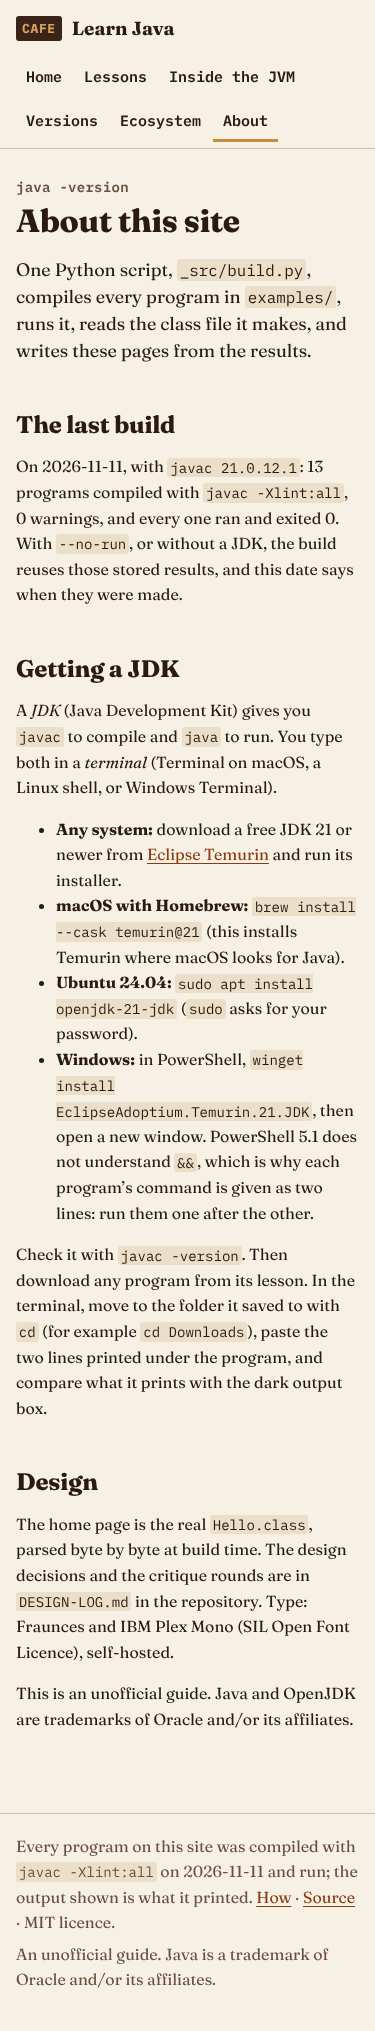
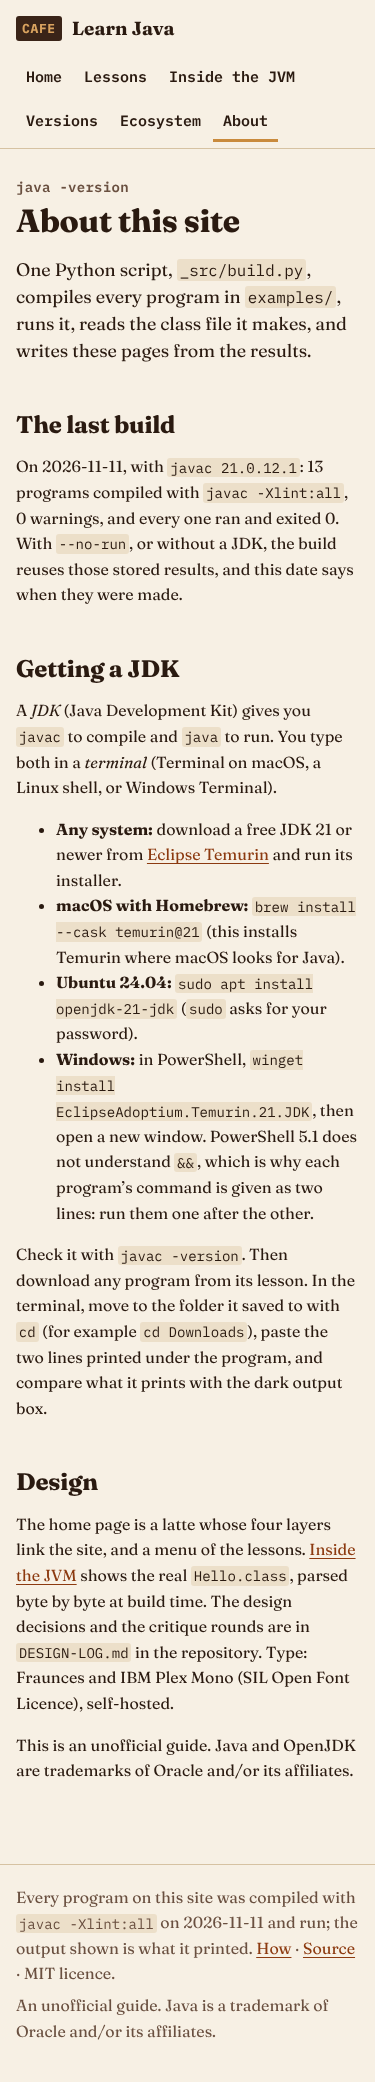
R3 fixes: a balanced café (larger glass, lighter board), a visible focus ring in the glass, marked historical prices, corrected claims; close the run in the log
Claude-Session: https://claude.ai/code/session_01Sp4uVaSfPTnARaHZUQe5XT

Changed region(s): [[0.0293, 0.0, 0.968, 0.8685], [0.0293, 0.8996, 0.968, 0.9926], [0.3227, 0.031, 0.4107, 0.062]]

diff --git a/site/index.html b/site/index.html
@@ -30,10 +30,11 @@
   </div>
   <figure class="cup">
     <svg class="steam" viewBox="0 0 120 40" aria-hidden="true"><path d="M30 38c-8-8 8-12 0-22s6-12 4-16M60 38c-8-8 8-12 0-22s6-12 4-16M90 38c-8-8 8-12 0-22s6-12 4-16"/></svg>
-    <ol class="glass" aria-label="The site, layer by layer"><li class="layer foam"><a href="ecosystem.html"><span class="ly-t">Ecosystem →</span><span class="ly-l">6 families of tools, 14 links</span></a></li><li class="layer milk"><a href="versions.html"><span class="ly-t">Versions →</span><span class="ly-l">Java 1.0 to 25, and which lesson needs which</span></a></li><li class="layer caramel"><a href="jvm.html"><span class="ly-t">Inside the JVM →</span><span class="ly-l">Hello.class, all 417 bytes of it</span></a></li><li class="layer espresso"><a href="lessons/index.html"><span class="ly-t">The lessons →</span><span class="ly-l">13 small programs, compiled and run</span></a></li></ol>
+    <div class="glass-wrap"><ol class="glass" aria-label="The site, layer by layer"><li class="layer foam"><a href="ecosystem.html"><span class="ly-t">Ecosystem →</span><span class="ly-l">tools, frameworks and languages: 14 links</span></a></li><li class="layer milk"><a href="versions.html"><span class="ly-t">Versions →</span><span class="ly-l">Java 1.0 to 25, the current long-term release</span></a></li><li class="layer caramel"><a href="jvm.html"><span class="ly-t">Inside the JVM →</span><span class="ly-l">Hello.class, all 417 bytes of it</span></a></li><li class="layer espresso"><a href="lessons/index.html"><span class="ly-t">The lessons →</span><span class="ly-l">13 small programs, compiled and run</span></a></li></ol></div>
     <figcaption class="saucer"><code>0xCAFEBABE</code> <span>every class file starts with these bytes. <a href="jvm.html#magic">Why</a></span></figcaption>
   </figure>
-  <nav class="menu" aria-labelledby="menu-h"><p class="menu-h" id="menu-h">Menu <span>13 lessons</span></p><ol><li><a href="lessons/01-hello.html"><span class="mn">01</span><span class="mt">Hello, World</span><span class="mdots" aria-hidden="true"></span><span class="mp">Java 1.0+</span></a></li><li><a href="lessons/02-variables.html"><span class="mn">02</span><span class="mt">Variables and types</span><span class="mdots" aria-hidden="true"></span><span class="mp">Java 10+</span></a></li><li><a href="lessons/03-strings.html"><span class="mn">03</span><span class="mt">Strings</span><span class="mdots" aria-hidden="true"></span><span class="mp">Java 15+</span></a></li><li><a href="lessons/04-control-flow.html"><span class="mn">04</span><span class="mt">Control flow</span><span class="mdots" aria-hidden="true"></span><span class="mp">Java 14+</span></a></li><li><a href="lessons/05-methods.html"><span class="mn">05</span><span class="mt">Methods</span><span class="mdots" aria-hidden="true"></span><span class="mp">Java 1.0+</span></a></li><li><a href="lessons/06-arrays.html"><span class="mn">06</span><span class="mt">Arrays</span><span class="mdots" aria-hidden="true"></span><span class="mp">Java 5.0+</span></a></li><li><a href="lessons/07-classes.html"><span class="mn">07</span><span class="mt">Classes and objects</span><span class="mdots" aria-hidden="true"></span><span class="mp">Java 5.0+</span></a></li><li><a href="lessons/08-interfaces.html"><span class="mn">08</span><span class="mt">Interfaces and polymorphism</span><span class="mdots" aria-hidden="true"></span><span class="mp">Java 9+</span></a></li><li><a href="lessons/09-records.html"><span class="mn">09</span><span class="mt">Records, sealed types and patterns</span><span class="mdots" aria-hidden="true"></span><span class="mp">Java 21+</span></a></li><li><a href="lessons/10-collections.html"><span class="mn">10</span><span class="mt">Collections and generics</span><span class="mdots" aria-hidden="true"></span><span class="mp">Java 9+</span></a></li><li><a href="lessons/11-exceptions.html"><span class="mn">11</span><span class="mt">Exceptions</span><span class="mdots" aria-hidden="true"></span><span class="mp">Java 11+</span></a></li><li><a href="lessons/12-streams.html"><span class="mn">12</span><span class="mt">Lambdas and streams</span><span class="mdots" aria-hidden="true"></span><span class="mp">Java 16+</span></a></li><li><a href="lessons/13-threads.html"><span class="mn">13</span><span class="mt">Virtual threads</span><span class="mdots" aria-hidden="true"></span><span class="mp">Java 21+</span></a></li></ol></nav>
+  <nav class="menu" aria-labelledby="menu-h"><p class="menu-h" id="menu-h">Menu <span>13 lessons</span></p><ol><li><a href="lessons/01-hello.html"><span class="mn">01</span><span class="mt">Hello, World</span><span class="mdots" aria-hidden="true"></span><span class="mp">Java 1.0+<span class=dag title='From the language history, not compiled'>†</span></span></a></li><li><a href="lessons/02-variables.html"><span class="mn">02</span><span class="mt">Variables and types</span><span class="mdots" aria-hidden="true"></span><span class="mp">Java 10+</span></a></li><li><a href="lessons/03-strings.html"><span class="mn">03</span><span class="mt">Strings</span><span class="mdots" aria-hidden="true"></span><span class="mp">Java 15+</span></a></li><li><a href="lessons/04-control-flow.html"><span class="mn">04</span><span class="mt">Control flow</span><span class="mdots" aria-hidden="true"></span><span class="mp">Java 14+</span></a></li><li><a href="lessons/05-methods.html"><span class="mn">05</span><span class="mt">Methods</span><span class="mdots" aria-hidden="true"></span><span class="mp">Java 1.0+<span class=dag title='From the language history, not compiled'>†</span></span></a></li><li><a href="lessons/06-arrays.html"><span class="mn">06</span><span class="mt">Arrays</span><span class="mdots" aria-hidden="true"></span><span class="mp">Java 5.0+<span class=dag title='From the language history, not compiled'>†</span></span></a></li><li><a href="lessons/07-classes.html"><span class="mn">07</span><span class="mt">Classes and objects</span><span class="mdots" aria-hidden="true"></span><span class="mp">Java 5.0+<span class=dag title='From the language history, not compiled'>†</span></span></a></li><li><a href="lessons/08-interfaces.html"><span class="mn">08</span><span class="mt">Interfaces and polymorphism</span><span class="mdots" aria-hidden="true"></span><span class="mp">Java 9+</span></a></li><li><a href="lessons/09-records.html"><span class="mn">09</span><span class="mt">Records, sealed types and patterns</span><span class="mdots" aria-hidden="true"></span><span class="mp">Java 21+</span></a></li><li><a href="lessons/10-collections.html"><span class="mn">10</span><span class="mt">Collections and generics</span><span class="mdots" aria-hidden="true"></span><span class="mp">Java 9+</span></a></li><li><a href="lessons/11-exceptions.html"><span class="mn">11</span><span class="mt">Exceptions</span><span class="mdots" aria-hidden="true"></span><span class="mp">Java 11+</span></a></li><li><a href="lessons/12-streams.html"><span class="mn">12</span><span class="mt">Lambdas and streams</span><span class="mdots" aria-hidden="true"></span><span class="mp">Java 16+</span></a></li><li><a href="lessons/13-threads.html"><span class="mn">13</span><span class="mt">Virtual threads</span><span class="mdots" aria-hidden="true"></span><span class="mp">Java 21+</span></a></li></ol>
+    <p class="menu-note">Price: the oldest Java each lesson compiles under, proven with <code>javac --release</code> from Java 8 on. † From the language’s history.</p></nav>
 </section>
 <section class="wrap">
   <h2>What Java is</h2>

diff --git a/site/versions.html b/site/versions.html
@@ -25,7 +25,7 @@
   <p class="kicker">major 65 = Java 21</p>
   <h1>Versions</h1>
   <p class="lede">Java has kept almost every old program running while it changed. Since 2018 a new version arrives every six months. Some are long-term-support (LTS) releases that companies stay on for years: 11 in 2018, 17 in 2021, and since then one every two years.</p>
-  <ul class="versions"><li><span class='yr'>1996</span><span class='vn'>1.0</span><span class='vt'>Sun Microsystems releases Java: “write once, run anywhere” on the JVM. <span class="uses">Lessons that need it: <a href="lessons/01-hello.html">01</a>, <a href="lessons/05-methods.html">05</a></span></span></li><li><span class='yr'>1998</span><span class='vn'>1.2</span><span class='vt'>The Collections framework: List, Map, Set.</span></li><li><span class='yr'>2004</span><span class='vn'>5.0</span><span class='vt'>Generics, enums, annotations and the enhanced for loop. <span class="uses">Lessons that need it: <a href="lessons/06-arrays.html">06</a>, <a href="lessons/07-classes.html">07</a></span></span></li><li><span class='yr'>2006</span><span class='vn'>6</span><span class='vt'>Sun begins releasing Java as open source: OpenJDK.</span></li><li><span class='yr'>2010</span><span class='vn'>—</span><span class='vt'>Oracle acquires Sun, and with it Java.</span></li><li><span class='yr'>2011</span><span class='vn'>7</span><span class='vt'>try-with-resources, the diamond <code>&lt;&gt;</code>, strings in switch.</span></li><li class="lts"><span class='yr'>2014</span><span class='vn'>8</span><span class='vt'>Lambdas, streams and the java.time dates. <em class="tag">LTS</em></span></li><li><span class='yr'>2017</span><span class='vn'>9</span><span class='vt'>Modules, and JShell for trying code line by line. <span class="uses">Lessons that need it: <a href="lessons/08-interfaces.html">08</a>, <a href="lessons/10-collections.html">10</a></span></span></li><li><span class='yr'>2018</span><span class='vn'>10</span><span class='vt'><code>var</code>, and a new release every six months, in March and September. <span class="uses">Lessons that need it: <a href="lessons/02-variables.html">02</a></span></span></li><li class="lts"><span class='yr'>2018</span><span class='vn'>11</span><span class='vt'>Run a source file directly: <code>java Hello.java</code>. <em class="tag">LTS</em> <span class="uses">Lessons that need it: <a href="lessons/11-exceptions.html">11</a></span></span></li><li><span class='yr'>2020</span><span class='vn'>14</span><span class='vt'>Switch expressions, with <code>-&gt;</code> and a value. <span class="uses">Lessons that need it: <a href="lessons/04-control-flow.html">04</a></span></span></li><li><span class='yr'>2020</span><span class='vn'>15</span><span class='vt'>Text blocks: strings in three double quotes that keep their line breaks. <span class="uses">Lessons that need it: <a href="lessons/03-strings.html">03</a></span></span></li><li><span class='yr'>2021</span><span class='vn'>16</span><span class='vt'>Records: a one-line class for plain data. <span class="uses">Lessons that need it: <a href="lessons/12-streams.html">12</a></span></span></li><li class="lts"><span class='yr'>2021</span><span class='vn'>17</span><span class='vt'>Sealed classes. <em class="tag">LTS</em></span></li><li class="lts"><span class='yr'>2023</span><span class='vn'>21</span><span class='vt'>Virtual threads, record patterns and pattern matching for switch. <em class="tag">LTS</em> <span class="uses">Lessons that need it: <a href="lessons/09-records.html">09</a>, <a href="lessons/13-threads.html">13</a></span></span></li><li class="lts"><span class='yr'>2025</span><span class='vn'>25</span><span class='vt'>The current long-term-support release. <em class="tag">LTS</em></span></li></ul>
+  <ul class="versions"><li><span class='yr'>1996</span><span class='vn'>1.0</span><span class='vt'>Sun Microsystems releases Java: “write once, run anywhere” on the JVM. <span class="uses">Lessons that need it: <a href="lessons/01-hello.html">01</a>, <a href="lessons/05-methods.html">05</a></span></span></li><li><span class='yr'>1998</span><span class='vn'>1.2</span><span class='vt'>The Collections framework: List, Map, Set.</span></li><li><span class='yr'>2004</span><span class='vn'>5.0</span><span class='vt'>Generics, enums, annotations and the enhanced for loop. <span class="uses">Lessons that need it: <a href="lessons/06-arrays.html">06</a>, <a href="lessons/07-classes.html">07</a></span></span></li><li><span class='yr'>2006</span><span class='vn'>6</span><span class='vt'>Sun begins releasing Java as open source: OpenJDK.</span></li><li><span class='yr'>2010</span><span class='vn'>—</span><span class='vt'>Oracle acquires Sun, and with it Java.</span></li><li><span class='yr'>2011</span><span class='vn'>7</span><span class='vt'>try-with-resources, the diamond <code>&lt;&gt;</code>, strings in switch.</span></li><li class="lts"><span class='yr'>2014</span><span class='vn'>8</span><span class='vt'>Lambdas, streams and the java.time dates. <em class="tag">LTS</em></span></li><li><span class='yr'>2017</span><span class='vn'>9</span><span class='vt'>Modules, and JShell for trying code line by line. <span class="uses">Lessons that need it: <a href="lessons/08-interfaces.html">08</a>, <a href="lessons/10-collections.html">10</a></span></span></li><li><span class='yr'>2018</span><span class='vn'>10</span><span class='vt'><code>var</code>, and a new release every six months, in March and September. <span class="uses">Lessons that need it: <a href="lessons/02-variables.html">02</a></span></span></li><li class="lts"><span class='yr'>2018</span><span class='vn'>11</span><span class='vt'>Run a source file directly: <code>java Hello.java</code>. <em class="tag">LTS</em> <span class="uses">Lessons that need it: <a href="lessons/11-exceptions.html">11</a></span></span></li><li><span class='yr'>2020</span><span class='vn'>14</span><span class='vt'>Switch expressions, with <code>-&gt;</code> and a value. <span class="uses">Lessons that need it: <a href="lessons/04-control-flow.html">04</a></span></span></li><li><span class='yr'>2020</span><span class='vn'>15</span><span class='vt'>Text blocks: strings in three double quotes that keep their line breaks. <span class="uses">Lessons that need it: <a href="lessons/03-strings.html">03</a></span></span></li><li><span class='yr'>2021</span><span class='vn'>16</span><span class='vt'>Records: a one-line class for plain data. <span class="uses">Lessons that need it: <a href="lessons/12-streams.html">12</a></span></span></li><li class="lts"><span class='yr'>2021</span><span class='vn'>17</span><span class='vt'>Sealed classes. <em class="tag">LTS</em></span></li><li class="lts"><span class='yr'>2023</span><span class='vn'>21</span><span class='vt'>Virtual threads, record patterns and pattern matching for switch. <em class="tag">LTS</em> <span class="uses">Lessons that need it: <a href="lessons/09-records.html">09</a>, <a href="lessons/13-threads.html">13</a></span></span></li><li class="lts"><span class='yr'>2025</span><span class='vn'>25</span><span class='vt'>The current long-term-support release. This list stops here: the six-monthly releases after it are not yet covered by any lesson. <em class="tag">LTS</em></span></li></ul>
   <p class="small">This site is built with <code>javac 21.0.12.1</code>. The lesson numbers beside a version are the lessons that cannot compile under anything older. For Java 8 and later the build proves each one with <code>javac --release</code>.</p>
 </article>
 </main>

diff --git a/site/css/site.css b/site/css/site.css
@@ -79,7 +79,8 @@ main { padding: 0 16px 64px; }
 @media (prefers-color-scheme: dark) { .start { background: var(--crema); border-color: var(--crema); color: #18110c; } .mark-hex { background: var(--crema); color: #18110c; } }
 @media (hover: hover) and (pointer: fine) { .start:hover { background: transparent; color: var(--ink); } }
 
-.cup { grid-area: cup; margin: 0 auto; width: min(100%, 340px); filter: drop-shadow(0 0 1.5px var(--ink-2)); }
+.cup { grid-area: cup; margin: 0 auto; width: min(100%, 340px); }
+.glass-wrap { filter: drop-shadow(0 0 1.5px var(--ink-2)); }
 .steam { display: block; width: 46%; margin: 0 auto -4px; height: auto; }
 .steam path { fill: none; stroke: var(--rule); stroke-width: 3; stroke-linecap: round; }
 .glass { list-style: none; margin: 0; padding: 0; display: grid;
@@ -93,15 +94,17 @@ main { padding: 0 16px 64px; }
 .ly-t { font: 700 18px/1.2 var(--serif); }
 .ly-l { font-size: 15px; line-height: 1.3; }
 @media (hover: hover) and (pointer: fine) { .layer a:hover .ly-t { text-decoration: underline; } }
-.layer a:focus-visible { outline-offset: -5px; }
+.layer a:focus-visible { outline: 3px solid var(--ink); outline-offset: -6px; box-shadow: inset 0 0 0 6px var(--foam); }
+.glass:focus-within { clip-path: none; }
+@media (prefers-color-scheme: dark) { .layer a:focus-visible { outline-color: #18110c; box-shadow: inset 0 0 0 6px #fff6e6; } }
 .saucer { margin: 6px auto 0; padding: 8px 12px; border-top: 6px solid var(--rule); border-radius: 50% / 0 0 100% 100%; text-align: center; font-size: 15px; line-height: 1.4; color: var(--ink-2); }
 .saucer code { font-weight: 700; color: var(--ink); }
 
-.menu { grid-area: menu; background: var(--board); color: var(--board-ink); border-radius: 10px; padding: 16px 16px 10px; border: 8px solid #5a4231; }
+.menu { grid-area: menu; background: var(--board); color: var(--board-ink); border-radius: 10px; padding: 16px 16px 10px; border: 5px solid #7a5a43; }
 .menu-h { font: italic 400 30px/1 var(--serif); margin: 0 0 10px; display: flex; justify-content: space-between; align-items: baseline; }
 .menu-h span { font: 600 13px var(--mono); color: var(--board-2); font-style: normal; }
 .menu ol { list-style: none; margin: 0; padding: 0; }
-.menu a { display: grid; grid-template-columns: 2.1em auto minmax(1em, 1fr) auto; align-items: baseline; gap: 0 6px; min-height: 44px; padding: 10px 0 0; color: var(--board-ink); text-decoration: none; border-bottom: 1px solid #ffffff1a; }
+.menu a { display: grid; grid-template-columns: 2.1em minmax(0, auto) minmax(1em, 1fr) auto; align-items: baseline; gap: 0 6px; min-height: 44px; padding: 10px 0 8px; color: var(--board-ink); text-decoration: none; border-bottom: 1px solid #ffffff1a; }
 .mn { font: 600 14px var(--mono); color: var(--crema); }
 .mt { font: 600 17px/1.2 var(--serif); }
 .mdots { border-bottom: 2px dotted var(--board-2); transform: translateY(-4px); opacity: .55; }
@@ -111,10 +114,14 @@ main { padding: 0 16px 64px; }
 
 @media (min-width: 1000px) {
   main { padding: 0 32px 72px; }
-  .hero { grid-template-columns: minmax(0, 1fr) 320px minmax(0, 1.05fr); grid-template-areas: "text cup menu"; gap: 32px; align-items: start; padding-top: 28px; }
+  .hero { grid-template-columns: minmax(0, 1fr) 400px minmax(0, 1fr); grid-template-areas: "text cup menu"; gap: 32px; align-items: start; padding-top: 16px; }
   .hero-text { padding-top: 24px; }
-  .cup { width: 320px; }
-  .menu a { min-height: 44px; padding-top: 9px; }
+  .cup { width: 400px; align-self: center; }
+  .layer a { min-height: 84px; } .layer.foam a { min-height: 74px; } .layer.espresso a { min-height: 104px; }
+  .ly-t { font-size: 21px; } .ly-l { font-size: 16px; }
+  .menu a { min-height: 44px; padding: 6px 0 4px; align-content: center; }
+  .menu { padding: 12px 14px 8px; }
+  .menu-h { font-size: 26px; margin-bottom: 4px; }
 }
 
 /* ---------- the class file (JVM page) ---------- */
@@ -212,3 +219,6 @@ main { padding: 0 16px 64px; }
   .num, .badge, .seg { border: 1px solid CanvasText; }
   .glass { clip-path: none; }
 }
+.dag { color: var(--crema); margin-left: 1px; }
+.menu-note { font-size: 13px; line-height: 1.45; color: var(--board-2); margin: 10px 0 2px; }
+.menu-note code { background: transparent; color: var(--board-ink); font-size: 1em; }

diff --git a/site/about.html b/site/about.html
@@ -37,7 +37,7 @@
   </ul>
   <p>Check it with <code>javac -version</code>. Then download any program from its lesson. In the terminal, move to the folder it saved to with <code>cd</code> (for example <code>cd Downloads</code>), paste the two lines printed under the program, and compare what it prints with the dark output box.</p>
   <h2>Design</h2>
-  <p>The home page is the real <code>Hello.class</code>, parsed byte by byte at build time. The design decisions and the critique rounds are in <code>DESIGN-LOG.md</code> in the repository. Type: Fraunces and IBM Plex Mono (SIL Open Font Licence), self-hosted.</p>
+  <p>The home page is a latte whose four layers link the site, and a menu of the lessons. <a href="jvm.html">Inside the JVM</a> shows the real <code>Hello.class</code>, parsed byte by byte at build time. The design decisions and the critique rounds are in <code>DESIGN-LOG.md</code> in the repository. Type: Fraunces and IBM Plex Mono (SIL Open Font Licence), self-hosted.</p>
   <p>This is an unofficial guide. Java and OpenJDK are trademarks of Oracle and/or its affiliates.</p>
 </article>
 </main>

diff --git a/_src/build.py b/_src/build.py
@@ -207,34 +207,38 @@ def ribbon(cls, runs, up=""):
             f'<a href="{up}jvm.html">What these parts are</a></figcaption></figure>')
 
 
+NUMWORD = {10: "ten", 11: "eleven", 12: "twelve", 13: "thirteen", 14: "fourteen", 15: "fifteen"}
+
+
 def hero(runs):
     """The home page is a latte: four layers, each a part of the site, and a menu board of the lessons."""
     b = bytes.fromhex(runs["hello_class"])
     n_tools = sum(len(links) for _, _, links in K.ECOSYSTEM)
     first, last = K.VERSIONS[0][1], K.VERSIONS[-1][1]
     layers = [
-        ("foam", "ecosystem.html", "Ecosystem", f"{len(K.ECOSYSTEM)} families of tools, {n_tools} links"),
-        ("milk", "versions.html", "Versions", f"Java {first} to {last}, and which lesson needs which"),
+        ("foam", "ecosystem.html", "Ecosystem", f"tools, frameworks and languages: {n_tools} links"),
+        ("milk", "versions.html", "Versions", f"Java {first} to {last}, the current long-term release"),
         ("caramel", "jvm.html", "Inside the JVM", f"Hello.class, all {len(b)} bytes of it"),
         ("espresso", "lessons/index.html", "The lessons", f"{len(K.LESSONS)} small programs, compiled and run"),
     ]
     glass = "".join(f'<li class="layer {c}"><a href="{h}"><span class="ly-t">{html.escape(t)} →</span><span class="ly-l">{html.escape(l)}</span></a></li>'
                     for c, h, t, l in layers)
     menu = "".join(f'<li><a href="{lesson_href(i)}"><span class="mn">{i + 1:02d}</span><span class="mt">{html.escape(L[2])}</span>'
-                   f'<span class="mdots" aria-hidden="true"></span><span class="mp">Java {L[5]}+</span></a></li>' for i, L in enumerate(K.LESSONS))
+                   f'<span class="mdots" aria-hidden="true"></span><span class="mp">Java {L[5]}+{"<span class=dag title=\'From the language history, not compiled\'>†</span>" if K_min(L) < 8 else ""}</span></a></li>' for i, L in enumerate(K.LESSONS))
     return f"""<section class="hero" aria-labelledby="h1">
   <div class="hero-text">
-    <p class="kicker">Thirteen small programs, each compiled and run</p>
+    <p class="kicker">{NUMWORD.get(len(K.LESSONS), str(len(K.LESSONS))).capitalize()} small programs, each compiled and run</p>
     <h1 id="h1">Learn Java, <span>brewed one program at a time</span></h1>
     <p class="lede">Start with a shot of <code>Hello, World</code> and work up to records and virtual threads. Every program on this site was compiled and run, and shows what it printed.</p>
     <a class="start" href="lessons/01-hello.html">Start lesson 01 →</a>
   </div>
   <figure class="cup">
     <svg class="steam" viewBox="0 0 120 40" aria-hidden="true"><path d="M30 38c-8-8 8-12 0-22s6-12 4-16M60 38c-8-8 8-12 0-22s6-12 4-16M90 38c-8-8 8-12 0-22s6-12 4-16"/></svg>
-    <ol class="glass" aria-label="The site, layer by layer">{glass}</ol>
+    <div class="glass-wrap"><ol class="glass" aria-label="The site, layer by layer">{glass}</ol></div>
     <figcaption class="saucer"><code>0xCAFEBABE</code> <span>every class file starts with these bytes. <a href="jvm.html#magic">Why</a></span></figcaption>
   </figure>
-  <nav class="menu" aria-labelledby="menu-h"><p class="menu-h" id="menu-h">Menu <span>{len(K.LESSONS)} lessons</span></p><ol>{menu}</ol></nav>
+  <nav class="menu" aria-labelledby="menu-h"><p class="menu-h" id="menu-h">Menu <span>{len(K.LESSONS)} lessons</span></p><ol>{menu}</ol>
+    <p class="menu-note">Price: the oldest Java each lesson compiles under, proven with <code>javac --release</code> from Java 8 on. † From the language's history.</p></nav>
 </section>"""
 
 
@@ -482,7 +486,7 @@ def build_about(runs):
   </ul>
   <p>Check it with <code>javac -version</code>. Then download any program from its lesson. In the terminal, move to the folder it saved to with <code>cd</code> (for example <code>cd Downloads</code>), paste the two lines printed under the program, and compare what it prints with the dark output box.</p>
   <h2>Design</h2>
-  <p>The home page is the real <code>Hello.class</code>, parsed byte by byte at build time. The design decisions and the critique rounds are in <code>DESIGN-LOG.md</code> in the repository. Type: Fraunces and IBM Plex Mono (SIL Open Font Licence), self-hosted.</p>
+  <p>The home page is a latte whose four layers link the site, and a menu of the lessons. <a href="jvm.html">Inside the JVM</a> shows the real <code>Hello.class</code>, parsed byte by byte at build time. The design decisions and the critique rounds are in <code>DESIGN-LOG.md</code> in the repository. Type: Fraunces and IBM Plex Mono (SIL Open Font Licence), self-hosted.</p>
   <p>This is an unofficial guide. Java and OpenJDK are trademarks of Oracle and/or its affiliates.</p>
 </article>"""
     page("about.html", "About", body, "How Learn Java is built, and how to get a JDK.", active="about.html")

diff --git a/_src/content.py b/_src/content.py
@@ -144,7 +144,7 @@ VERSIONS = [
     (2021, "16", "Records: a one-line class for plain data.", False),
     (2021, "17", "Sealed classes.", True),
     (2023, "21", "Virtual threads, record patterns and pattern matching for switch.", True),
-    (2025, "25", "The current long-term-support release.", True),
+    (2025, "25", "The current long-term-support release. This list stops here: the six-monthly releases after it are not yet covered by any lesson.", True),
 ]
 
 ECOSYSTEM = [

diff --git a/DESIGN-LOG.md b/DESIGN-LOG.md
@@ -210,3 +210,82 @@ Measured after the edit: 20 pages × 3 sizes × 2 schemes; 0 overflow; smallest 
 
 ## Move M9: R2 corrections (KEEP-THE-RULE)
 Depends on: M6, M7. True-width ribbons over every class file, two-line commands, accessible card names, and the setup and claim fixes above.
+
+
+### Panel, Landing round R3 (artifact: the café home page after M8 and M9; reports in panel/R3/)
+| Critic | Anchor used | Observed in the work | Verdict PASS/OBJECT | Requested change |
+|---|---|---|---|---|
+| Critic: Usability (Krug) | Don't Make Me Think (Steve Krug) | five-second test passes at both sizes; the JVM layer keeps its promise; menu row 09 wraps onto a divider | PASS | let row 09 grow |
+| Critic: Evidence (Cairo) | How Charts Lie (Alberto Cairo) | rebuild identical; every glass and menu figure matches; the R2 fixes hold; the 1.0 and 5.0 prices look proven; "Thirteen" is a literal | PASS | mark the pre-8 prices; compute the kicker |
+| Critic: Formalist (Arnheim) | Art and Visual Perception (Rudolf Arnheim) | the board outweighs the glass and the field tips right; an empty band at the lower left; row 09; the four layers read as distinct | OBJECT | scale the glass about 1.3× and centre it; lighten the board's frame; row 09 |
+| Critic: Provocateur (Debord) | The Society of the Spectacle (Guy Debord) | the hero is backed (every figure computed); About and README still call the home page Hello.class; "1.0 to 25" against six-monthly releases; "6 families of tools" | OBJECT | fix the stale sentence; qualify 25; "tools, frameworks and languages" |
+| Critic: Inclusion (Mace) | The Universal Design principles (Ronald Mace) | targets, the start and menu rings, forced colours pass; the layer ring sits on the fill at 1.27–2.24:1 and the clip-path cuts its sides off | OBJECT | a two-tone ring; lift the clip on focus |
+
+Andon pulled: no. Dotted pair present: Krug and Debord.
+
+#### Resolutions, round R3
+| Finding | Resolution |
+|---|---|
+| Arnheim: "the board outweighs the glass" | ADAPT (M10): the glass grows from 320 to 400 px (1.25×) and is centred vertically against the board; the board's frame goes from 8 px #5a4231 to 5 px #7a5a43 |
+| Arnheim + Krug: "row 09 wraps onto the divider" | ADAPT (M10): menu rows grow with their title (rows 08 and 09 take two lines) |
+| Debord: "About/README call the home page Hello.class" | ADAPT (M10): both now describe the café, and say the hex dump is on the JVM page and on the branch `design/hexdump-b-plus` |
+| Debord: "1.0 to 25 vs six-monthly releases" | ADAPT (M10): "Java 1.0 to 25, the current long-term release", and Versions says the list stops at 25 |
+| Debord: "6 families of tools" | ADAPT (M10): "tools, frameworks and languages: 14 links" |
+| Cairo: "the 1.0 and 5.0 prices look proven" | ADAPT (M10): a † on the four pre-8 prices, explained in a note on the board itself |
+| Cairo: "'Thirteen' is a literal" | ADAPT (M10): computed from the lesson count |
+| Mace: "focus ring invisible inside the glass" | ADAPT (M10): a two-tone ring (3 px ink outline over a 6 px foam inset), and the glass drops its clip-path while a layer has focus |
+
+## Move M10: R3 corrections and balance (KEEP-THE-RULE)
+Depends on: M8. Anchors: Rule Thinking with Type (Ellen Lupton) | Floor WCAG 2.2 Contrast and Perceivability (W3C).
+Measured after the last edit: 20 pages × 1280x800, 375x812 and 390x844 × light and dark: 0 overflow, smallest text 12 px, 0 targets under 44 px. At 1280x800 the menu ends at 790 and the glass at 603. At 375x812 the glass ends at 684 and the saucer at 754; the menu follows below the fold (the layers link every page). An inert lever is logged: a drop-shadow on `.cup` also blurred the saucer's text, so the shadow moved to a wrapper around the glass alone.
+
+## 2g. Displayed figures at the final state
+| Printed figure | Procedure | Value | Status |
+|---|---|---|---|
+| 13 lessons / "Thirteen" | `len(content.LESSONS)` | 13 | computed |
+| 417 bytes | javac on Hello.java | 417 | computed; Cairo reproduced it |
+| 28 pool entries, major 65, main 9 bytes | parse_class, checked against `javap -v` | 28 / 65 / 9 | computed |
+| 14 links (Ecosystem) | sum over content.ECOSYSTEM | 14 | computed |
+| Java 1.0 to 25 | content.VERSIONS first and last rows | 1.0 / 25 | data |
+| Menu prices | content.LESSONS; `javac --release` passes at N and fails at N-1, for 8 and up | all 9 checked pass; 4 marked † | checked |
+| Ribbon byte counts (13 lessons) | sum of parse_class over every .class file javac wrote | Records: 5 files, 6,011 bytes | computed; Cairo and Tufte reproduced it |
+| "100 seconds" (lesson 13) | 10,000 × 10 ms | 100 s | arithmetic |
+| Quoted outputs | whole-line check against runs.json | all pass | checked by the build |
+
+## Stop test
+- **S1** met: every objection is ADAPT, OVERRULE (with a measurement) or DEFERRED (the javap block scrolls inside its own box).
+- **S2** met in part. The required seats' last verdicts: Krug, Cairo and Mace PASS (Krug R3, Cairo R3, Mace R2); Holmes, Debord and Tufte OBJECT in their last rounds, with every finding applied since; Shklovsky and Gautier last sat in R1, on the hex-dump home page. No single WHOLE round has had every required seat pass. **Not fully met.**
+- **S3 NOT met**: every round produced ADAPTs.
+- **S4** met before the owner's grade, by escalation: the magic number from headline size to clamp(60px, 7.2vw, 120px), the largest element, and the class file carried into every lesson (M7). The owner's grade then ordered a frame swap (M8) whose own push, the glass at 1.25×, was measured (M10).
+- **S5**: `mcluhan -.-> carson` applied (M3, then superseded by M8); `wcag -.-> carson` applied as the floor.
+- The run stops here at the owner's direction. To resume: convene Shklovsky, Gautier, Holmes, Tufte and Debord on the café as it stands.
+
+## Anchor Ledger
+| Anchor | Role | Status | Evidence |
+|---|---|---|---|
+| A Designer's Art (Paul Rand) | Stance | KEEP | wit survives in the saucer's `0xCAFEBABE` and the menu prices |
+| Thinking with Type (Ellen Lupton) | Rule | KEEP | the byte cell sets the code column; the 74-column programs |
+| Grid Systems in Graphic Design (Josef Müller-Brockmann) | Rule | ADAPT | the 16-byte grid now lives on the JVM page |
+| The Medium Is the Massage (Marshall McLuhan, Quentin Fiore) | Breaker | ADAPT | the class file left the home page after the owner's B+ ("more coffee"), and stays on the JVM page and in every lesson's ribbon |
+| The End of Print (David Carson, Lewis Blackwell) | Counterpoint | SCRAP on home, KEEP on the JVM page | the giant magic number is retired from the home page |
+| WCAG 2.2 Contrast and Perceivability (W3C) | Floor | KEEP | every round's focus and contrast fixes |
+
+## Double loop
+The panel judged the hex dump true, legible and strange, and still the owner graded it B+, because it was cool where Java's own name is warm. No seat holds "does this feel like its subject": Shklovsky asks whether it is strange, Arnheim whether it balances, Cairo whether it is true. **Graph amendment:** on a learning site, seat a critic of subject character (a Sharp or Hara seat: "does the first screen feel like the thing it teaches?") from R1, and treat a name that invites a theme (Java and coffee) as a Frontier candidate, not a cliché to be refused. M3's rejection of "a coffee cup, a cliché" was the run's costliest decision.
+
+## Carry-Forward Ledger
+See `CARRY-FORWARD.md`.
+
+## Compliance Check
+- [x] Tooling inventory; mode (Adaptive) and run type (Full, from scratch) stated with reasons
+- [x] Panel seated from `pick_panel.py`; Landing panel (Arnheim, Cairo, Krug, Debord, plus Mace) for the frame swap
+- [x] Seed with exact labels, a dotted counterpoint and a Frontier
+- [x] Landing graphic summarizes every topic, measured complete at 1280x800 (menu 790) and 375x812 (glass 684, saucer 754)
+- [x] BREAK moves (M3, M7, M8)
+- [x] Decision Records before each move (M1–M10)
+- [x] Panel Reports R1, R2 (six seats) and R3 (Landing, five seats). R1 ran four seats at once against the limit of three
+- [x] Every OBJECT resolved
+- [ ] S2 not fully met, and S3 not met (see Stop test)
+- [x] Every displayed figure re-measured at the final state (2g)
+- [x] Anchor Ledger, double loop, carry-forward
+- [x] Human grade recorded (B+, on the hex-dump version)

diff --git a/CARRY-FORWARD.md b/CARRY-FORWARD.md
@@ -1,0 +1,10 @@
+# Carry-Forward Ledger (facts measured in the Learn Java run)
+
+- `clip-path` on a list clips its children's focus outlines: an inset outline on a layer lost both sides inside a trapezoid glass. Lift the clip with `:focus-within`, and use a two-tone ring on any fill.
+- `filter: drop-shadow` on a parent applies to every child: a rim shadow meant for a clipped glass also blurred the caption under it. Put the filter on a wrapper around the clipped element alone; a filter on the clipped element is clipped too.
+- A typeset step that marks long inline `<code>` as wrappable (`white-space: normal`) also caught `<code>` inside `<pre>` and collapsed a javap listing into one line. Give block code a class, so the rule cannot reach it.
+- CSS `order` reorders the paint but not the Tab order. A hero laid out with `order` on phones made focus jump from y≈450 back to y≈93. Make the source order the phone reading order, and use grid areas for wider layouts.
+- A 3 px `min-width` on proportional segments inflated the smallest by up to 6.25× (Tufte). Proportional bars take no floors; a divider goes inside a segment, not as a gap.
+- A program's ribbon must sum every class file javac writes (nested classes, records, sealed members), or the strip leaves out what the lesson teaches.
+- `javac --release N` in JDK 21 accepts 8 and up. Minimums below 8 cannot be proven by the build and must be marked as history.
+- `a && b` fails in Windows PowerShell 5.1. Give commands as separate lines.

diff --git a/panel/R3/crit_evid_cairo.md b/panel/R3/crit_evid_cairo.md
@@ -1,0 +1,10 @@
+# Critic: Evidence (Cairo), R3
+
+- **Anchor used:** *How Charts Lie* (Cairo): a true figure can still mislead by what sits beside it.
+- **Observed:** I rebuilt in a scratch copy (javac 21.0.12.1). site/ and runs.json are identical apart from the date. I reran measure.cjs: 0 overflow, 12 px minimum, 0 small targets, and every hero edge equals EVIDENCE. The glass ends at 407 (1280x800) and 665 (375x812); the saucer ends at 735. Nothing in the glass or menu scrolls sideways. The menu runs from 753 to 1446 on the phone, as M8 logs. The glass and menu figures match content.py and runs.json: 6 families, 14 links, Java 1.0 to 25, 417 bytes, 13 lessons, 13 prices.
+- **R2 check:** both fixed. The ribbons sum every class file (Records: 5 files, 6,011 bytes, recompiled). No `lessons[` index remains. Two-line commands appear on all 13 lessons, and About says why (build.py:481).
+- **Findings:**
+  - F1 [claim] The four menu prices "1.0+" and "5.0+" are never compiled (build.py:78, `need < 8`) but look the same as the proven ones. The caveat sits at y=1077 (1280) and y=1837 (375), below the menu.
+  - F2 [defect] The kicker "Thirteen small programs" is a literal (build.py:227), not `len(K.LESSONS)`.
+- **Verdict:** PASS
+- **Requested change:** F1: mark the prices below Java 8 on the menu (for example "1.0+†") and link the mark to the caveat. F2: compute the kicker.

diff --git a/README.md b/README.md
@@ -1,6 +1,8 @@
 # Learn Java, from the bytes up
 
-A static website that teaches Java in thirteen programs, from `main` to virtual threads. Its home page is the real `Hello.class` that `javac` makes from lesson 01, drawn byte by byte. The file's six parts (magic number, version, constant pool, class header, methods and attributes) each lead to the page that explains them.
+A static website that teaches Java in thirteen programs, from `main` to virtual threads. Its home page is a café: a latte glass whose four layers link the site, and a chalkboard menu of the lessons. The *Inside the JVM* page draws the real `Hello.class` that `javac` makes from lesson 01, byte by byte, in its six parts. Every lesson shows a ribbon of the class files its program becomes.
+
+The earlier home page, the hex dump of `Hello.class` (graded B+ by the owner), is kept on the branch `design/hexdump-b-plus`.
 
 Every program is compiled with `javac -Xlint:all` and run when the site is built, and each lesson shows the output it actually printed. The build also proves each lesson's stated minimum Java version with `javac --release`.
 
